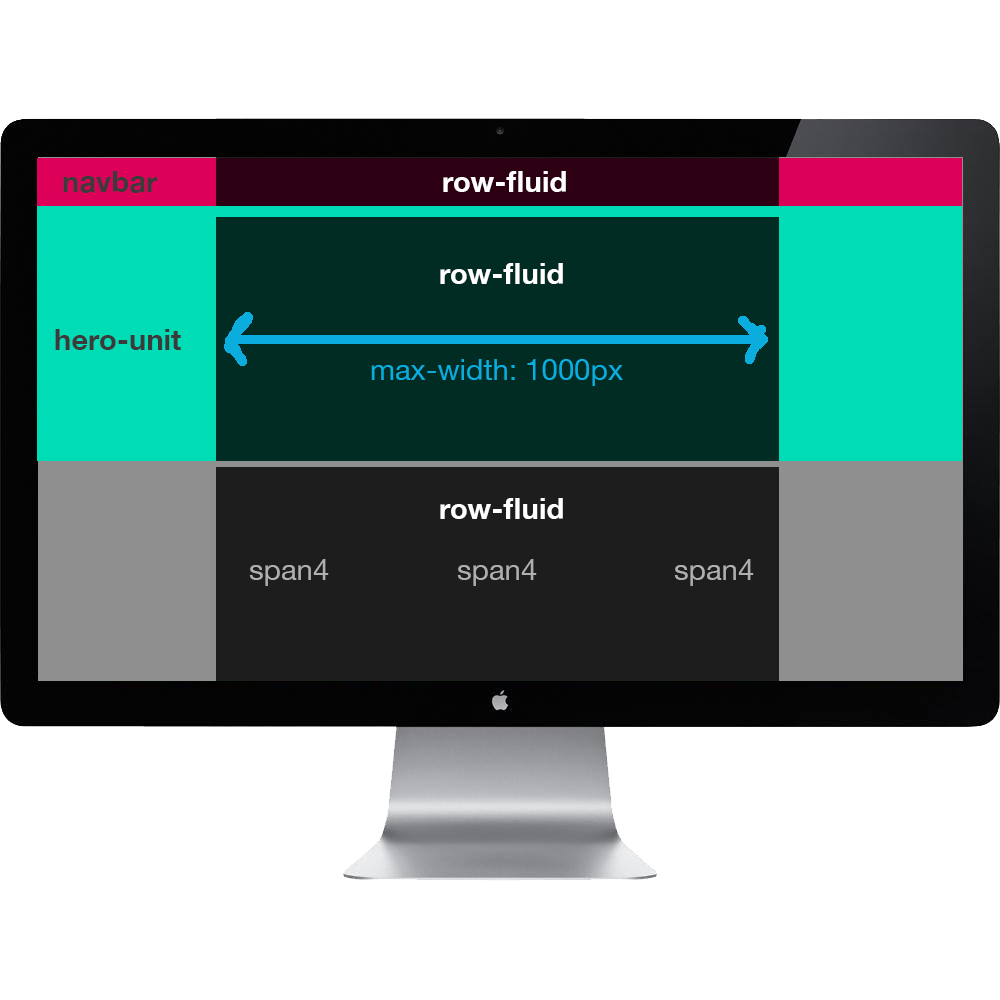
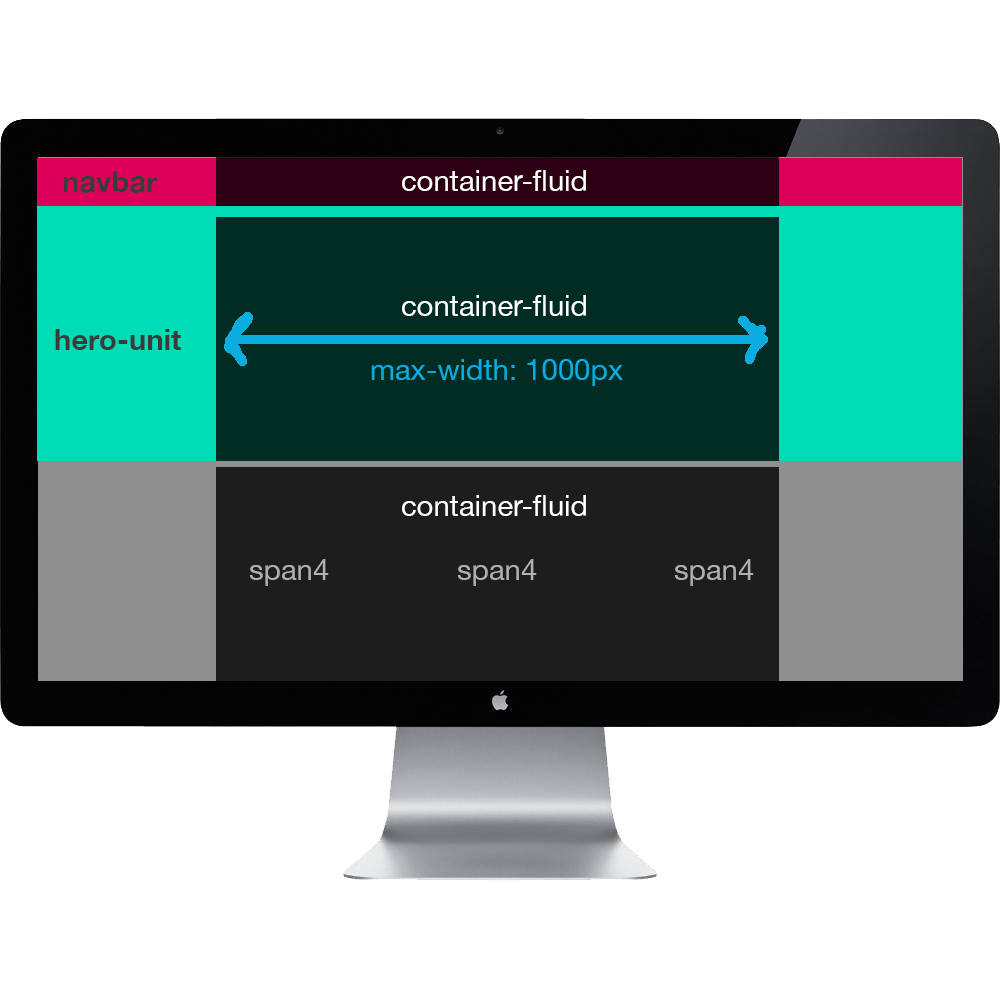
add more code examples

Changed region(s): [[0.403, 0.248, 0.589, 0.341], [0.403, 0.155, 0.589, 0.217], [0.403, 0.496, 0.589, 0.527]]

diff --git a/index.html b/index.html
@@ -168,6 +168,11 @@
         </section>
 
         <section>
+          <img src="img/bootstrap-plain.png"  />
+          <aside class="notes">Josh</aside>                    
+        </section>
+
+        <section>
           <img src="img/troopers.jpg" />
           <h3>Oh hai clone army</h3>          
           <aside class="notes">Josh</aside>          
@@ -228,6 +233,55 @@
           </ul>
           <aside class="notes">Jason</aside>          
         </section>
+
+        <section>
+          <h2>project <span>setup</span></h2>
+        </section>
+
+        <section>
+          <h3>Can't we just use the <span class="inverse">Customize Bootstrap</span> page?</h3>
+          <h2>Yes, but that isn't enough</h2>
+        </section>
+
+
+        <section>
+          <h2>Don't use the "download" Bootstrap option</h2>
+        </section>
+
+
+        <section>
+          <h2>Just clone the git repo</h2> 
+          <ul>
+            <li>Can make changes directly</li>
+            <li>Variables / mixins with LESS</li>
+            <li>This is what we do at Bizo</li>
+          </ul>
+        </section>
+
+
+        <section>
+          <h2>We wanted changes to be easily seen</h2>
+          <h3 class="inverse">So this talk's code is a bit special</h3>
+        </section>
+
+        <section>
+          <pre><code>
+&lt;!-- Example Project's index.html --&gt;
+
+
+&lt;!-- Standard Boostrap --&gt;
+&lt;link href="css/bootstrap.min.css" rel="stylesheet"&gt;
+
+&lt;!-- Overrides --&gt;
+&lt;link rel="stylesheet/less" type="text/css" href="less/theme.less" /&gt;
+          </code></pre>
+        </section>
+
+        <section>
+          <h3>Done for clarifying differences from <span class="inverse">vanilla Bootstrap</span></h3>
+          <h2>Not the preferred way</h2> 
+        </section>
+
         
         <section>
           <h2>Layout</h2>
@@ -242,29 +296,6 @@
             Jason <br /> Use a marker, nothing fancy. This is just to get some very basic ideas down on paper. What are your most important elements. How are you going to arrange them on the page.
           </aside>                    
         </section>        
-
-        <section>
-          <h2>Fixed width is so 90's</h2>
-          <h3><span class="inverse">Fluid Baby!</span></h3>
-        </section>
-
-        <section>
-          <img src="img/layout-screen1.png" />
-        </section>
-
-        <section>
-          <h2>100% width + <span>Big</span> screen</h2>
-          <h3>Crappy for reading</h3>
-        </section>
-
-        <section>
-          <img src="img/layout-screen2.png" />
-        </section>
-
-        <section>
-          <h2>Now we can scale up/down</h2>
-          <h3><span class="inverse">Not quite responsive, but close enough for our talk</span></h3>
-        </section>
 
         <section>
           <section>
@@ -283,12 +314,70 @@
             <img src="img/fireworks-toolkit.png" />
             <aside class="notes">Jason</aside>                      
           </section>
-        </section>        
-        
+        </section> 
+
         <section>
           <h2>Layout</h2>
-          <h3>Step 2 - <i class="inverse">Bootstrap time!</i></h3>
+          <h3>Step 2 - <i class="inverse">Coding time!</i></h3>
           <aside class="notes">Josh</aside>                    
+        </section>
+
+        <section>
+          <img src="img/layout-screen1.png" />
+        </section>
+
+        <section>
+          <h2>Fixed width is so 90's</h2>
+          <h3><span class="inverse">Fluid Baby!</span></h3>
+        </section>
+
+        <section>
+        <pre><code>
+  &lt;!-- index.html --&gt;
+  &lt;div class="navbar"&gt; 
+    &lt;div class="navbar-inner container-fluid"&gt;...&lt;/div&gt;
+  &lt;/div&gt;
+
+  &lt;div class="hero-unit"&gt; 
+    &lt;div class="container-fluid"&gt;...&lt;/div&gt;
+  &lt;/div&gt;
+
+  &lt;div class="container-fluid"&gt;
+    &lt;div class="row-fluid"&gt; 
+      &lt;div class="span4"&gt;&lt;/div&gt;
+      &lt;div class="span4"&gt;&lt;/div&gt;
+      &lt;div class="span4"&gt;&lt;/div&gt;
+    &lt;/div&gt; 
+  &lt;/div&gt;
+ 
+          </code></pre>
+        <aside class="notes">Josh</aside>        
+        </section>
+
+
+        <section>
+          <h2>100% width + <span>Big</span> screen</h2>
+          <h3>Crappy for reading</h3>
+        </section>
+
+        <section>
+          <img src="img/layout-screen2.png" />
+        </section>
+
+
+        <section>
+        <pre><code>
+.container-fluid {
+  margin: 0 auto;
+  max-width: 1000px;
+}
+        </pre></code>
+        <h3>Yup it's mostly that easy</h3>
+        </section>
+
+        <section>
+          <h2>Now we can scale up/down</h2>
+          <h3><span class="inverse">Not quite responsive, but close enough for our talk</span></h3>
         </section>
 
         <section>
@@ -297,17 +386,14 @@
         </section>
 
         <section>
-          <pre><code>
-  &lt;!-- assume typical HTML boilerplate --&gt;
-  &lt;div class="navbar"&gt; ... &lt;/div&gt;
-  &lt;div class="hero-unit"&gt; ... &lt;/div&gt;
-  &lt;div class="row-fluid"&gt; 
-    &lt;div class="span4"&gt;&lt;/div&gt;
-    &lt;div class="span4"&gt;&lt;/div&gt;
-    &lt;div class="span4"&gt;&lt;/div&gt;
-  &lt;/div&gt;
-          </code></pre>
-          <aside class="notes">Josh</aside>        
+          <h1>Progress</h1>
+          <ul>
+            <li><strike>Rad layout</strike></li>
+            <li>Bodacious color scheme</li>
+            <li>Tubular typography</li>
+            <li>Righteous style</li>            
+            <li>Gnarly custom components</li>
+          </ul>
         </section>
         
         <section>
@@ -321,6 +407,7 @@
           </ul>
           <aside class="notes">Jason</aside>          
         </section>        
+
 
         <section>
           <h2>Next: Choose a style</h2>
@@ -419,15 +506,9 @@
             </aside>
           </section>
         </section>
-              
-        <section>
-          <img src="img/bootstrap-colored.png" />
-          <h3>Tony's Site Colored</h3>          
-          <aside class="notes">Josh</aside>                     
-        </section>
 
         <section>
-          <pre><code>
+        <pre><code>
 // Color scheme
 @black: #000;
 @fuschia: #af0047;
@@ -440,6 +521,14 @@
 @quaternary: @teal;
           </code></pre>
         </section>
+              
+        <section>
+          <img src="img/bootstrap-colored.png" />
+          <h3>Tony's Site Colored</h3>          
+          <aside class="notes">Josh</aside>                     
+        </section>
+
+
         
         <section>
           <h2>So, <i class="inverse">what</i> do we need?</h2>
@@ -492,6 +581,37 @@
           <aside class="notes">
             Jason <br /> For text type, we chose open sans, a sans serif font with a lot of contrast from Lobster. In this case I'm intentionally creating contrast between my display and text type styles so that my headings get more attention. Instead, I could choose fonts from the same family to create harmony, with my display type simply being larger, bold or ultra. Note that text styles can be used as display fonts, but the reverse isn't true. Don't use #666 for copy (satan's font color) on a light background.
           </aside>                     
+        </section>
+
+        <section>
+          <h3>Integration</h3>
+          <pre><code>
+&lt;!-- typography --&gt;
+&lt;link href='http://fonts.googleapis.com/css?family=Lobster' /&gt;
+&lt;link href='http://fonts.googleapis.com/css?family=Open+Sans:400,800' /'&gt;
+          </pre></code>
+        </section>
+
+        <section>
+          <pre><code>
+@h1-size: 60px;
+
+body {  
+  font-family: 'Open Sans', sans-serif; 
+}
+
+h1 {
+  font-family: "Lobster", cursive;
+  text-shadow: 3px 4px rgba(0, 0, 0, 0.5);
+  font-size: @h1-size;
+}
+
+h2 {
+  font-size: @h1-size / 2;
+  font-weight: normal;
+}
+
+          </pre></code>
         </section>
 
         <section>

diff --git a/css/theme.less b/css/theme.less
@@ -8,6 +8,11 @@ body {
 }
 
 
+
+strike {
+  color: rgba(0,0,0,.4);
+}
+
 .reveal { 
   h1 {
     font-size: 3em;
